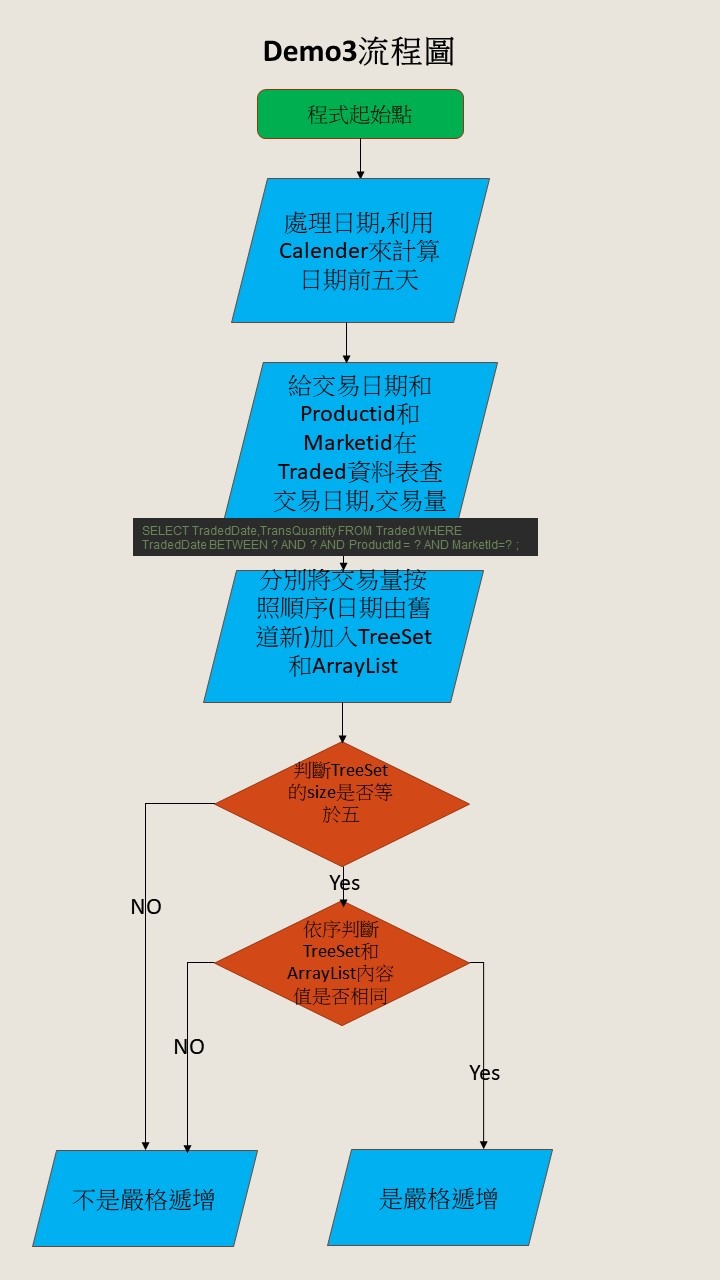
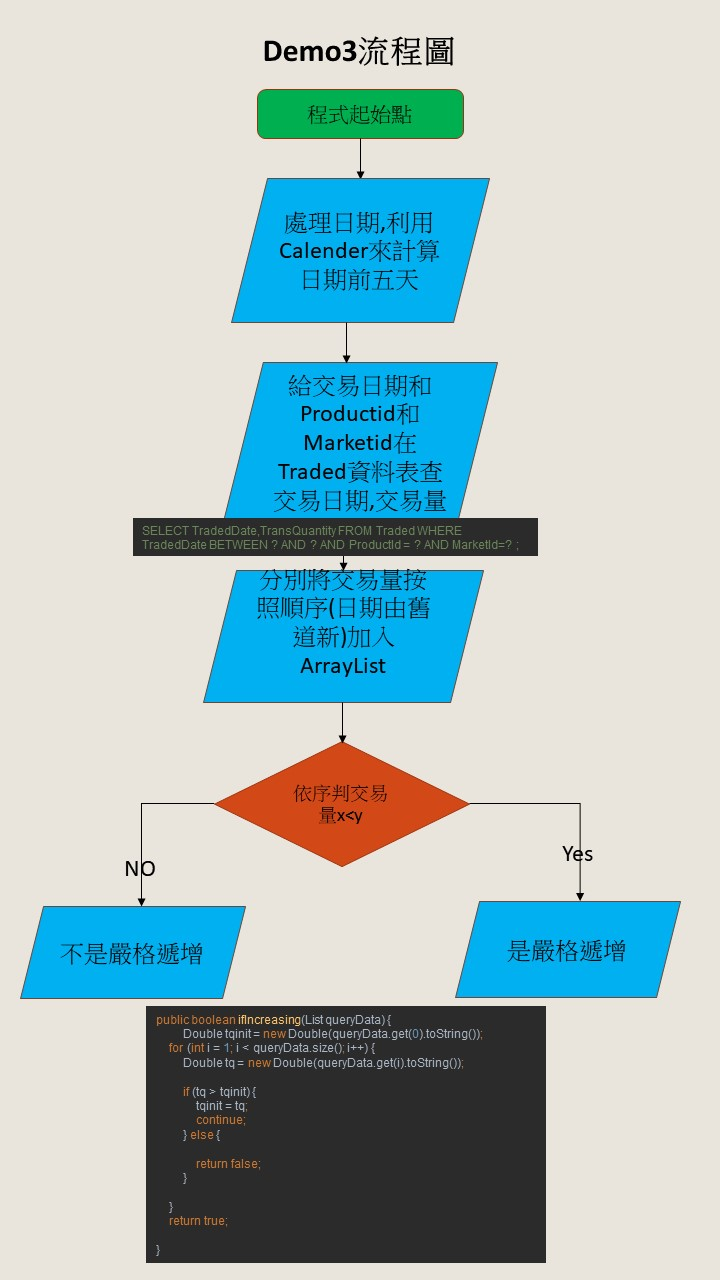
revise demo3

Changed region(s): [[0.0306, 0.6562, 0.9472, 1.0], [0.3667, 0.4688, 0.6111, 0.5312], [0.3972, 0.5938, 0.55, 0.6562]]

diff --git a/src/main/java/com/systex/billhu/demo2/Util/demo3Utill.java b/src/main/java/com/systex/billhu/demo2/Util/demo3Utill.java
@@ -1,42 +1,29 @@
 package com.systex.billhu.demo2.Util;
 
+import lombok.extern.slf4j.Slf4j;
 import org.springframework.boot.CommandLineRunner;
 import org.springframework.stereotype.Component;
 
-import javax.validation.constraints.Max;
-import java.util.*;
+import java.util.List;
 
 @Component
 public class demo3Utill  {
     public boolean ifIncreasing(List queryData) {
-        Queue<Double> tqQueue = new ArrayDeque<>();
-        int i = 0;
-        for (Object item : queryData) {
-            Double tq = new Double(item.toString().trim());
+            Double tqinit = new Double(queryData.get(0).toString());
+        for (int i = 1; i < queryData.size(); i++) {
+            Double tq = new Double(queryData.get(i).toString());
 
-            if (i == 0) {
-                i++;
-                tqQueue.add(tq);
+            if (tq > tqinit) {
+                tqinit = tq;
                 continue;
-            }
-            if(tq>tqQueue.poll()){
-                i++;
-                tqQueue.add(tq);
-                continue;
-            }else{
-                break;
+            } else {
+
+                return false;
             }
 
         }
-
-        if(i==queryData.size()&&i>0){
-            return true;
-        }
-
-        return false;
-
+        return true;
 
     }
-
 
 }

diff --git a/src/main/java/com/systex/billhu/demo2/Service/queryTradedService.java b/src/main/java/com/systex/billhu/demo2/Service/queryTradedService.java
@@ -141,6 +141,8 @@ public class queryTradedService  {
 
     }
 
+
+
     public List<Map<String, Object>> queryDemo4(String yearString, String monthString, String category) {
 
         List<List<Map<String, Object>>> queryDate = new ArrayList<>();
@@ -168,6 +170,8 @@ public class queryTradedService  {
         return queryDate.get(0);
 
     }
+
+
 
 
 }
